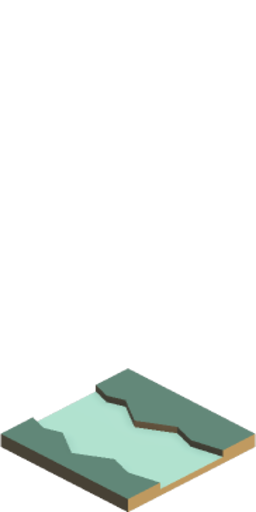
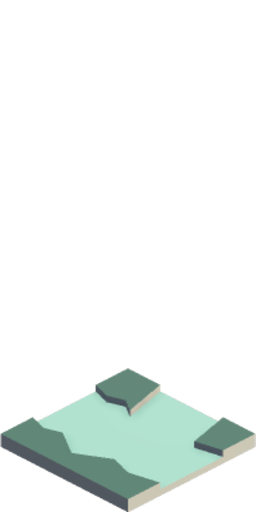
Feedback round 3: pixel cats with job hats, boost lock fix, speed presets
- Boost 500s fixed: SQLITE_BUSY came from deferred transactions upgrading
  to writes against the worker's lock, bypassing busy_timeout — all
  db.transaction calls now BEGIN IMMEDIATE via one wrapper in db/client.ts
- Cat clicks fixed: MapViewport no longer pointer-captures events that
  land on buttons/selects/links, so cat cards and zone removal work
- Cats are pixel sprites from the user's "Paws & Whiskers" pack, with
  hand-made pixel hats per specialization (hunter cap, architect hat,
  ritualist hood); crown/badges/carry icons kept
- New test speed presets: hyper (100x) and ludicrous (10000x) with
  survivable resource decay so the colony visibly expands
- Better pond water tile (Isometric Nature 057, shore accents)

Powered by human calories and mass GPU cycles.

Changed region(s): [[0.375, 0.75, 1.0, 0.9375], [0.0, 0.8438, 0.7188, 1.0]]

diff --git a/lib/game/testAcceleration.ts b/lib/game/testAcceleration.ts
@@ -1,4 +1,4 @@
-export type TestAccelerationPreset = 'off' | 'fast' | 'turbo';
+export type TestAccelerationPreset = 'off' | 'fast' | 'turbo' | 'hyper' | 'ludicrous';
 
 export interface TestAccelerationConfig {
   timeScale: number;
@@ -26,19 +26,45 @@ export function configForPreset(preset: TestAccelerationPreset): TestAcceleratio
     };
   }
 
+  if (preset === 'turbo') {
+    return {
+      timeScale: 120,
+      resourceDecayMultiplier: 120,
+      resilienceHoursOverride: 0,
+      criticalMsOverride: 5_000,
+    };
+  }
+
+  if (preset === 'hyper') {
+    // Watch the colony live: jobs/movement at 100x, but decay stays
+    // survivable so it can actually expand instead of starving.
+    return {
+      timeScale: 100,
+      resourceDecayMultiplier: 20,
+      resilienceHoursOverride: 0,
+      criticalMsOverride: 10_000,
+    };
+  }
+
   return {
-    timeScale: 120,
-    resourceDecayMultiplier: 120,
+    timeScale: 10_000,
+    resourceDecayMultiplier: 20,
     resilienceHoursOverride: 0,
-    criticalMsOverride: 5_000,
+    criticalMsOverride: 10_000,
   };
 }
 
 export function presetFromTimeScale(timeScale: number | null | undefined): TestAccelerationPreset {
   const scale = timeScale ?? 1;
 
-  if (scale >= 120) {
+  if (scale >= 10_000) {
+    return 'ludicrous';
+  }
+  if (scale >= 120 && scale < 10_000 && scale !== 100) {
     return 'turbo';
+  }
+  if (scale === 100) {
+    return 'hyper';
   }
   if (scale >= 20) {
     return 'fast';

diff --git a/components/map/CatLayer.tsx b/components/map/CatLayer.tsx
@@ -11,7 +11,16 @@ export interface MapCat {
 	currentTask: string | null;
 	activity?: "idle" | "traveling" | "working" | "returning" | null;
 	carrying?: { kind: "food" | "blessings"; amount: number } | null;
+	specialization?: "hunter" | "architect" | "ritualist" | null;
 }
+
+/** Pixel cat sprite by job — hats mark specializations. */
+const CAT_SPRITES: Record<string, string> = {
+	hunter: "/images/cats/cat-hunter.png",
+	architect: "/images/cats/cat-architect.png",
+	ritualist: "/images/cats/cat-ritualist.png",
+};
+const CAT_SPRITE_DEFAULT = "/images/cats/cat.png";
 
 interface CatLayerProps {
 	cats: MapCat[];
@@ -83,13 +92,23 @@ export function CatLayer({ cats, leaderId, onSelect }: CatLayerProps) {
 						}}
 						title={`${cat.name}${isLeader ? " (leader)" : ""} — click for details`}
 					>
-						<div className="relative text-3xl drop-shadow-md">
+						<div className="relative drop-shadow-md">
 							{isLeader && (
 								<span className="absolute -top-4 left-1/2 -translate-x-1/2 text-base">
 									👑
 								</span>
 							)}
-							🐈
+							<img
+								src={
+									(cat.specialization &&
+										CAT_SPRITES[cat.specialization]) ||
+									CAT_SPRITE_DEFAULT
+								}
+								alt={cat.name}
+								draggable={false}
+								className="h-10 w-10"
+								style={{ imageRendering: "pixelated" }}
+							/>
 							{badge && (
 								<span className="absolute -right-2 -top-1 text-sm">
 									{badge}

diff --git a/components/map/MapScreen.tsx b/components/map/MapScreen.tsx
@@ -649,20 +649,22 @@ export function MapScreen() {
 							Test Controls ({accelerationPreset})
 						</h3>
 						<div className="grid grid-cols-3 gap-1.5 text-xs">
-							{(["off", "fast", "turbo"] as const).map((preset) => (
-								<button
-									key={preset}
-									type="button"
-									onClick={() => onSetAcceleration(preset)}
-									className={`rounded px-2 py-1 font-semibold ${
-										accelerationPreset === preset
-											? "bg-purple-400 text-black"
-											: "bg-white/10 hover:bg-white/20"
-									}`}
-								>
-									{preset}
-								</button>
-							))}
+							{(["off", "fast", "turbo", "hyper", "ludicrous"] as const).map(
+								(preset) => (
+									<button
+										key={preset}
+										type="button"
+										onClick={() => onSetAcceleration(preset)}
+										className={`rounded px-2 py-1 font-semibold ${
+											accelerationPreset === preset
+												? "bg-purple-400 text-black"
+												: "bg-white/10 hover:bg-white/20"
+										}`}
+									>
+										{preset}
+									</button>
+								),
+							)}
 							<button
 								type="button"
 								onClick={() => onAdvanceTime(300)}

diff --git a/db/client.ts b/db/client.ts
@@ -32,6 +32,18 @@ export function createDb(
 	sqlite.pragma("synchronous = NORMAL");
 
 	const db = drizzle(sqlite, { schema });
+
+	// Write transactions must BEGIN IMMEDIATE: a deferred transaction that
+	// upgrades to a write mid-flight throws SQLITE_BUSY *without* honoring
+	// busy_timeout when the worker holds the write lock. Defaulting the
+	// behavior here fixes every db.transaction() call at once.
+	const originalTransaction = db.transaction.bind(db);
+	db.transaction = ((callback: Parameters<typeof originalTransaction>[0], config?: Parameters<typeof originalTransaction>[1]) =>
+		originalTransaction(callback, {
+			behavior: "immediate",
+			...config,
+		})) as typeof db.transaction;
+
 	try {
 		migrate(db, { migrationsFolder: MIGRATIONS_FOLDER });
 	} catch (err) {

diff --git a/components/ui/MapViewport.tsx b/components/ui/MapViewport.tsx
@@ -154,6 +154,9 @@ export function MapViewport({
 	const onPointerDown = useCallback(
 		(e: React.PointerEvent) => {
 			if (e.pointerType === "mouse" && e.button !== 0) return;
+			// Interactive map elements (cats, zones) handle their own clicks —
+			// capturing here would swallow them.
+			if ((e.target as HTMLElement).closest("button, select, a")) return;
 			const el = containerRef.current;
 			if (!el) return;
 			el.setPointerCapture(e.pointerId);

diff --git a/hooks/useGameDashboard.ts b/hooks/useGameDashboard.ts
@@ -295,7 +295,9 @@ export function useGameDashboard() {
 		);
 	};
 
-	const onSetAcceleration = async (preset: "off" | "fast" | "turbo") => {
+	const onSetAcceleration = async (
+		preset: "off" | "fast" | "turbo" | "hyper" | "ludicrous",
+	) => {
 		await runAction(`accel:${preset}`, () =>
 			postAction("setTestAcceleration", { preset }),
 		);

diff --git a/app/api/game/actions/route.ts b/app/api/game/actions/route.ts
@@ -51,7 +51,13 @@ const UPGRADE_KEYS = [
 	"resilience",
 ] as const;
 
-const ACCELERATION_PRESETS = ["off", "fast", "turbo"] as const;
+const ACCELERATION_PRESETS = [
+	"off",
+	"fast",
+	"turbo",
+	"hyper",
+	"ludicrous",
+] as const;
 
 /** Largest time skip a test may request (24h). */
 const MAX_ADVANCE_SECONDS = 86_400;

diff --git a/server/game.ts b/server/game.ts
@@ -875,7 +875,7 @@ export function ensureGlobalState(db: GameDb): string {
 
 export function setTestAcceleration(
 	db: GameDb,
-	preset: "off" | "fast" | "turbo",
+	preset: "off" | "fast" | "turbo" | "hyper" | "ludicrous",
 ) {
 	return db.transaction((txRaw) => {
 		const tx = txRaw as unknown as GameDb;
